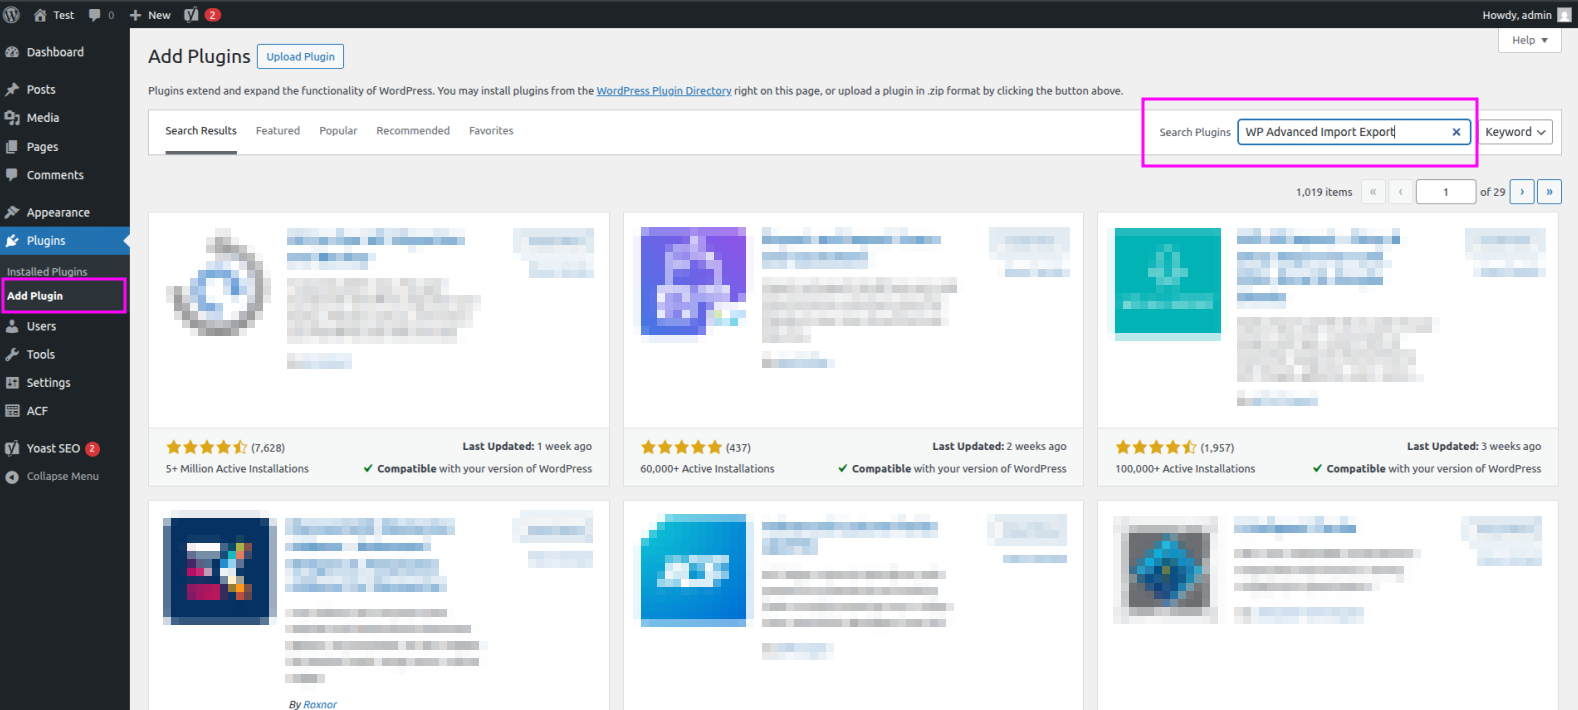
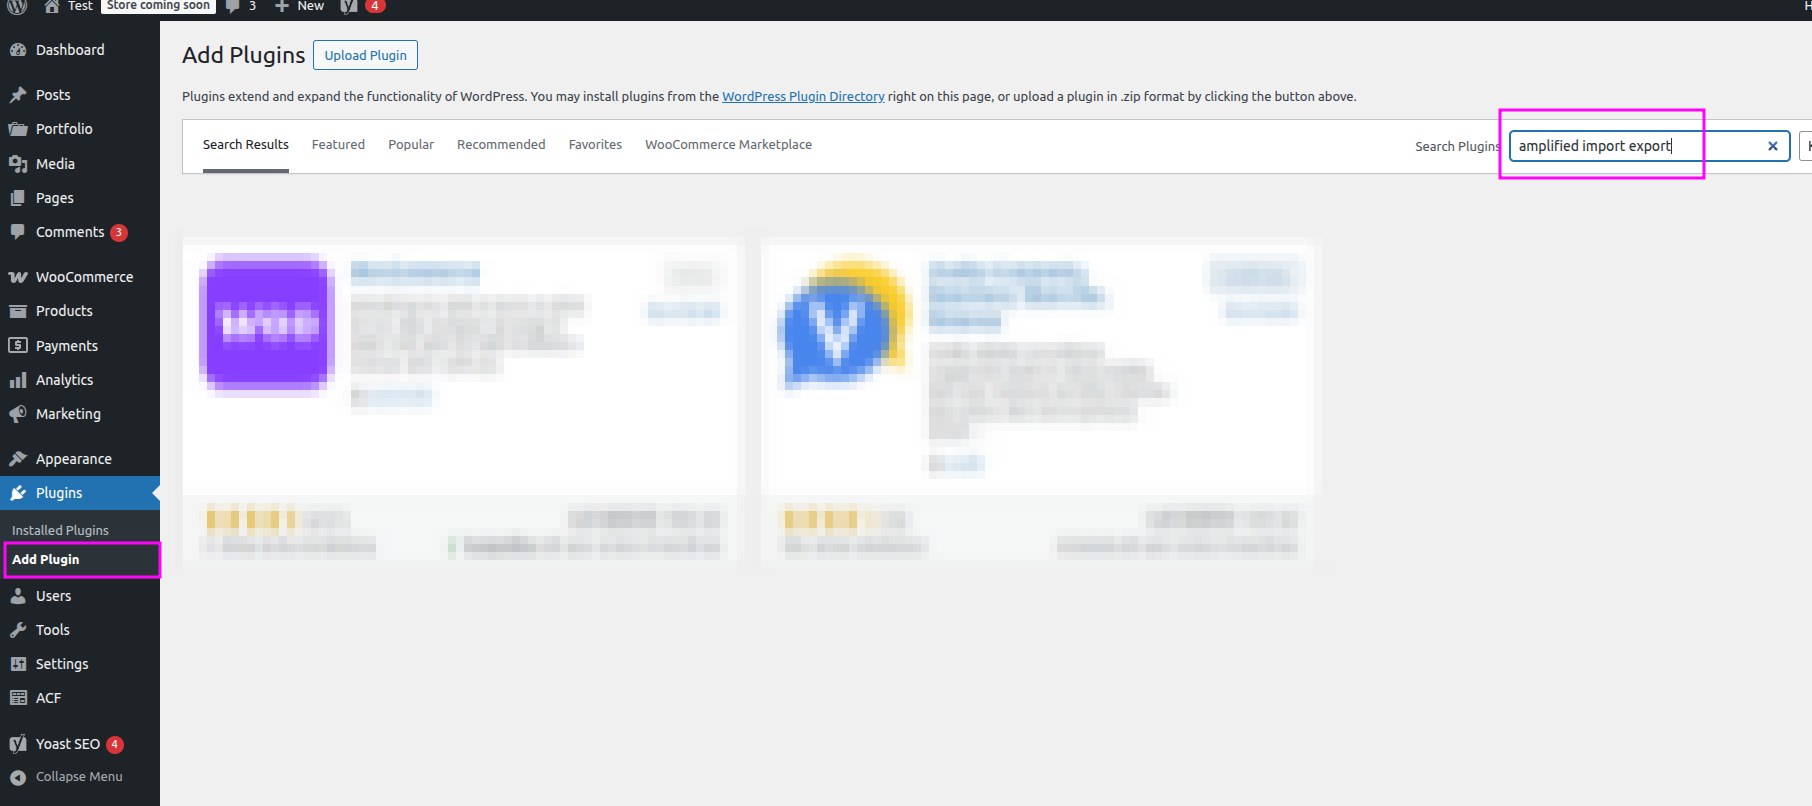
docs updated

diff --git a/documentation/installation.html b/documentation/installation.html
@@ -57,7 +57,7 @@
       <li>
         <div class="step-num">1</div>
         <div class="step-content">
-          <strong>Open the Plugins screen</strong>
+          <strong>Open the Plugins screen</strong><br>
           Log in to your WordPress admin panel and navigate to <strong>Plugins → Add New Plugin</strong>
         </div>
       </li>
